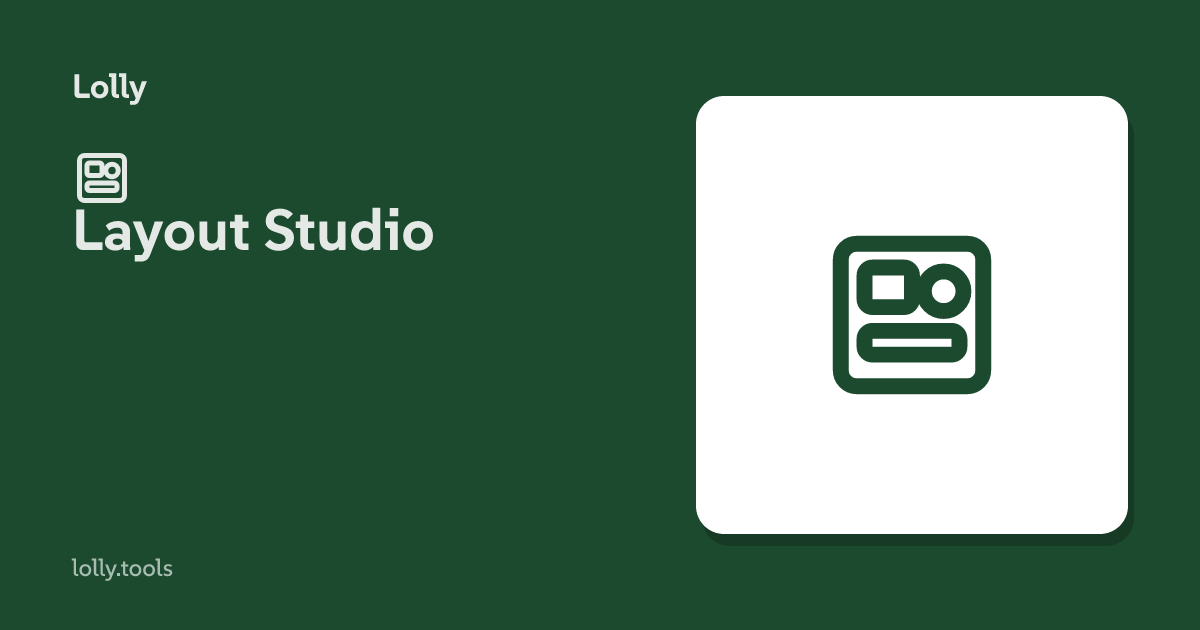
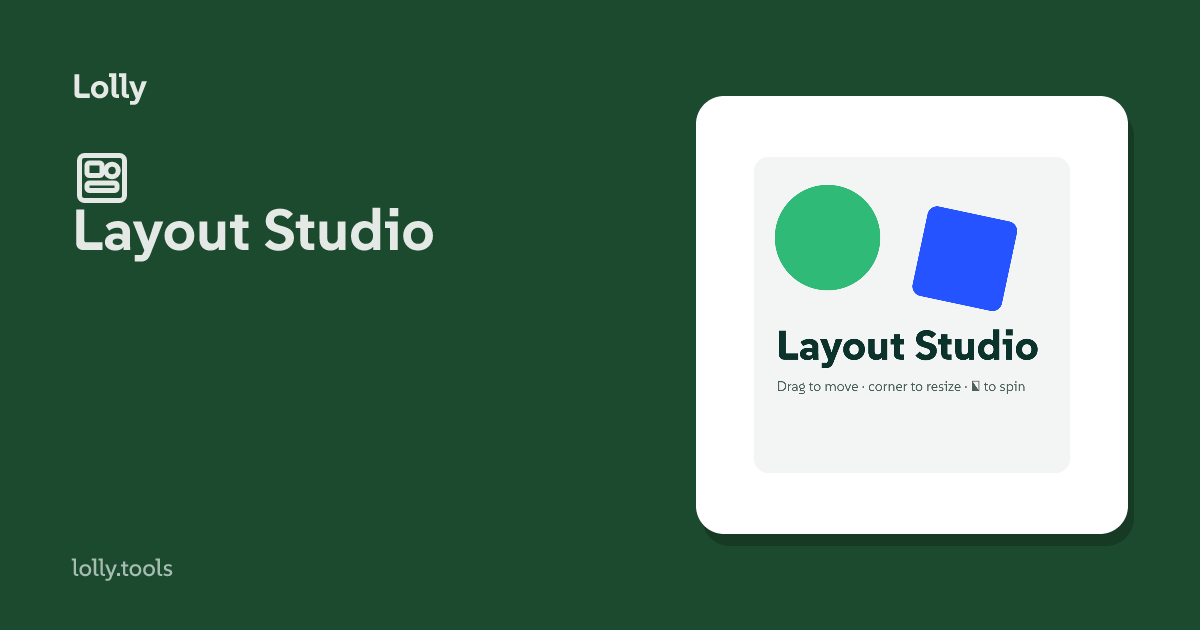
layout studio!

Changed region(s): [[0.6475, 0.2714, 0.8633, 0.6333]]

diff --git a/shells/web/src/styles/app.css b/shells/web/src/styles/app.css
@@ -3733,6 +3733,193 @@ background-color:hsl(var(--background) / 1);
   min-height: 100%;
 }
 
+/* ─── WYSIWYG editor layout (render.layout:'editor') ──────────────────────────
+   A chromeless free-canvas surface: no input sidebar, but the fixed render canvas,
+   pan/zoom and full export UI are kept. The direct-manipulation overlay + left
+   toolbar are stage siblings mounted by shells/web/src/views/free-canvas.js. All
+   chrome carries [data-export-hide] and sits outside #tool-canvas, so it never
+   appears in exported files. These rules follow the [data-sidebar="hidden"] block
+   above so .is-editor re-centres the fixed canvas (that block left-aligns it). */
+.tool-layout.is-editor .tool-stage {
+  overflow: hidden;
+  align-items: center;
+  justify-content: center;
+  place-items: center;
+  background-color: hsl(var(--muted));
+  background-image:
+    linear-gradient(45deg, rgba(0, 0, 0, 0.045) 25%, transparent 25%, transparent 75%, rgba(0, 0, 0, 0.045) 75%),
+    linear-gradient(45deg, rgba(0, 0, 0, 0.045) 25%, transparent 25%, transparent 75%, rgba(0, 0, 0, 0.045) 75%);
+  background-size: 24px 24px;
+  background-position: 0 0, 12px 12px;
+}
+
+/* Float the Export|Save pill over the stage (fixed → it can't shrink the canvas). */
+.tool-layout.is-editor .render-pill {
+  display: inline-flex;
+  position: fixed;
+  right: calc(1rem + var(--vv-right, 0px));
+  bottom: calc(1rem + var(--vv-bottom, 0px) + env(safe-area-inset-bottom));
+  margin: 0;
+  z-index: 30;
+}
+.tool-layout.is-editor.export-open .render-pill { display: none; }
+
+/* Left toolbar rail — reveal-dimmed at rest on desktop, always-on for touch. */
+.fc-toolbar {
+  position: absolute;
+  left: calc(10px + var(--vv-left, 0px));
+  top: 50%;
+  transform: translateY(-50%);
+  z-index: 16;
+  display: flex;
+  flex-direction: column;
+  gap: 5px;
+  padding: 7px;
+  border-radius: 16px;
+  background: hsl(var(--card) / 0.92);
+  -webkit-backdrop-filter: blur(8px);
+  backdrop-filter: blur(8px);
+  box-shadow: 0 8px 28px rgba(0, 0, 0, 0.22), 0 0 0 1px hsl(var(--border));
+  opacity: 0.5;
+  transition: opacity 0.18s ease;
+}
+.tool-stage:hover .fc-toolbar,
+.fc-toolbar:hover,
+.fc-toolbar:focus-within { opacity: 1; }
+
+.fc-btn {
+  width: 40px; height: 40px; padding: 0;
+  display: inline-flex; align-items: center; justify-content: center;
+  border: none; border-radius: 11px;
+  background: transparent; color: hsl(var(--foreground));
+  cursor: pointer;
+  transition: background-color 0.14s ease;
+}
+.fc-btn svg { width: 21px; height: 21px; }
+.fc-btn:hover { background: hsl(var(--muted)); }
+.fc-btn:focus-visible { outline: 2px solid hsl(var(--primary)); outline-offset: 2px; }
+.fc-btn.is-armed { background: hsl(var(--primary)); color: hsl(var(--primary-foreground)); }
+.fc-sep { height: 1px; background: hsl(var(--border)); margin: 3px 4px; }
+.fc-sep-v { display: inline-block; width: 1px; height: 20px; background: hsl(var(--border)); margin: 0 3px; }
+
+/* Colour-swatch controls (canvas background + fill/text). Native colour input
+   fills the button; a rounded chip shows the current colour. */
+.fc-swatch { position: relative; overflow: hidden; }
+.fc-swatch input[type="color"] {
+  position: absolute; inset: 0; width: 100%; height: 100%;
+  opacity: 0; cursor: pointer; border: none; padding: 0; margin: 0;
+}
+.fc-swatch::after {
+  content: ""; width: 22px; height: 22px; border-radius: 7px;
+  background: var(--sw, #cccccc); box-shadow: inset 0 0 0 1px rgba(0, 0, 0, 0.18);
+}
+
+/* Toolbar popovers (add / arrange / align). */
+.fc-popover {
+  position: absolute; z-index: 24; min-width: 184px;
+  background: hsl(var(--card)); color: hsl(var(--foreground));
+  border: 1px solid hsl(var(--border)); border-radius: 12px;
+  box-shadow: 0 12px 34px rgba(0, 0, 0, 0.28);
+  padding: 5px; display: flex; flex-direction: column;
+}
+.fc-pop-item {
+  display: flex; align-items: center; gap: 9px;
+  border: none; background: transparent; color: inherit;
+  font: inherit; font-size: 13.5px; text-align: left;
+  padding: 8px 10px; border-radius: 8px; cursor: pointer;
+}
+.fc-pop-item:hover { background: hsl(var(--muted)); }
+.fc-pop-ic svg { width: 16px; height: 16px; display: block; }
+.fc-pop-sep { height: 1px; background: hsl(var(--border)); margin: 4px 2px; }
+
+/* Selection overlay — siblings of the canvas, never exported. */
+.fc-overlay { position: absolute; inset: 0; z-index: 12; pointer-events: none; }
+.fc-outline {
+  position: absolute; box-sizing: border-box;
+  border: 1.5px solid hsl(var(--primary));
+  transform-origin: 50% 50%;
+}
+.fc-handle {
+  position: absolute; width: 12px; height: 12px;
+  margin-left: -6px; margin-top: -6px;
+  background: #ffffff; border: 1.5px solid hsl(var(--primary));
+  border-radius: 3px; pointer-events: auto; touch-action: none;
+  box-shadow: 0 1px 3px rgba(0, 0, 0, 0.28);
+}
+.fc-handle::after { content: ""; position: absolute; inset: -9px; }  /* fat touch target */
+.fc-h-n, .fc-h-s { cursor: ns-resize; }
+.fc-h-e, .fc-h-w { cursor: ew-resize; }
+.fc-h-ne, .fc-h-sw { cursor: nesw-resize; }
+.fc-h-nw, .fc-h-se { cursor: nwse-resize; }
+.fc-h-rotate {
+  width: 14px; height: 14px; margin-left: -7px; margin-top: -7px;
+  border-radius: 50%; cursor: grab; background: hsl(var(--primary)); border-color: #ffffff;
+}
+.fc-rot-stem {
+  position: absolute; height: 1.5px; background: hsl(var(--primary));
+  transform-origin: 0 50%; margin-top: -0.75px; pointer-events: none;
+}
+
+/* Rubber-band (create-drag + marquee). */
+.fc-rubber {
+  position: absolute; z-index: 13;
+  border: 1.5px dashed hsl(var(--primary));
+  background: hsl(var(--primary) / 0.10);
+  pointer-events: none;
+}
+
+/* Contextual bar above the selection. */
+.fc-ctxbar {
+  position: absolute; z-index: 15; transform: translateX(-50%);
+  display: flex; align-items: center; gap: 2px;
+  padding: 4px; border-radius: 12px;
+  background: hsl(var(--card) / 0.96);
+  -webkit-backdrop-filter: blur(8px);
+  backdrop-filter: blur(8px);
+  box-shadow: 0 8px 26px rgba(0, 0, 0, 0.24), 0 0 0 1px hsl(var(--border));
+  pointer-events: auto;
+}
+.fc-cbtn {
+  min-width: 32px; height: 32px; padding: 0 7px;
+  display: inline-flex; align-items: center; justify-content: center;
+  border: none; border-radius: 8px; background: transparent;
+  color: hsl(var(--foreground)); font: inherit; font-size: 14px; font-weight: 700;
+  cursor: pointer;
+}
+.fc-cbtn svg { width: 18px; height: 18px; }
+.fc-cbtn:hover { background: hsl(var(--muted)); }
+.fc-cbtn.fc-danger:hover { background: #ef4444; color: #ffffff; }
+.fc-ctxbar .fc-swatch { width: 32px; height: 32px; border-radius: 8px; }
+.fc-ctxbar .fc-swatch::after { width: 18px; height: 18px; border-radius: 6px; }
+.fc-readout {
+  font-size: 11px; color: hsl(var(--muted-foreground));
+  padding: 0 6px; white-space: nowrap; font-variant-numeric: tabular-nums;
+}
+.fc-text-only, .fc-img-only { display: none; }
+.fc-ctxbar.has-text .fc-text-only { display: inline-flex; }
+.fc-ctxbar.has-image .fc-img-only { display: inline-flex; }
+
+/* Armed-create cursor + gesture body state. */
+.tool-stage.fc-arming { cursor: crosshair; }
+body.fc-manipulating { user-select: none; -webkit-user-select: none; }
+
+/* Hide the editor chrome while the export shutter is closing (belt-and-braces —
+   detachExportHidden also removes it during the actual capture). */
+.tool-stage:has(.export-shutter.is-active) .fc-overlay,
+.tool-stage:has(.export-shutter.is-active) .fc-toolbar { opacity: 0; pointer-events: none; }
+
+@media (prefers-reduced-motion: reduce) {
+  .fc-toolbar { transition: none; }
+}
+
+/* Touch: always-visible toolbar + larger hit targets. */
+@media (pointer: coarse) {
+  .fc-toolbar { opacity: 1; }
+  .fc-btn { width: 44px; height: 44px; }
+  .fc-handle { width: 16px; height: 16px; margin-left: -8px; margin-top: -8px; }
+  .fc-h-rotate { width: 18px; height: 18px; margin-left: -9px; margin-top: -9px; }
+}
+
 /* Canvas-layout file utilities (render.layout:"canvas") put the drop zone on
    #tool-content; sidebar tools with a dropToAdd blocks input (e.g. logo-wall) put
    it on the #tool-canvas preview. Either way, dragging files over the canvas draws